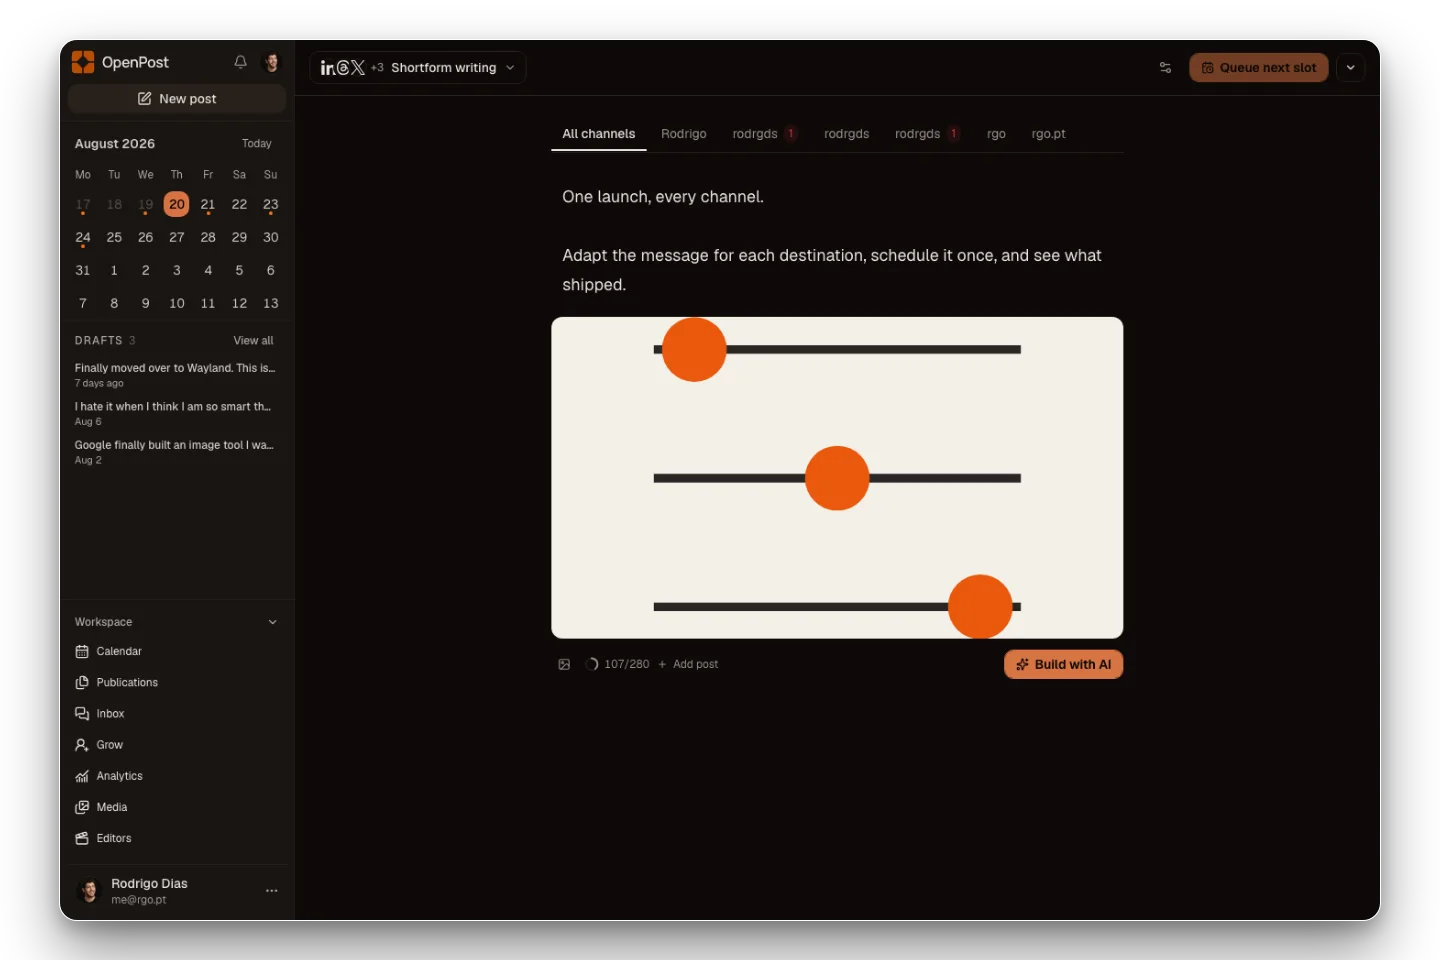
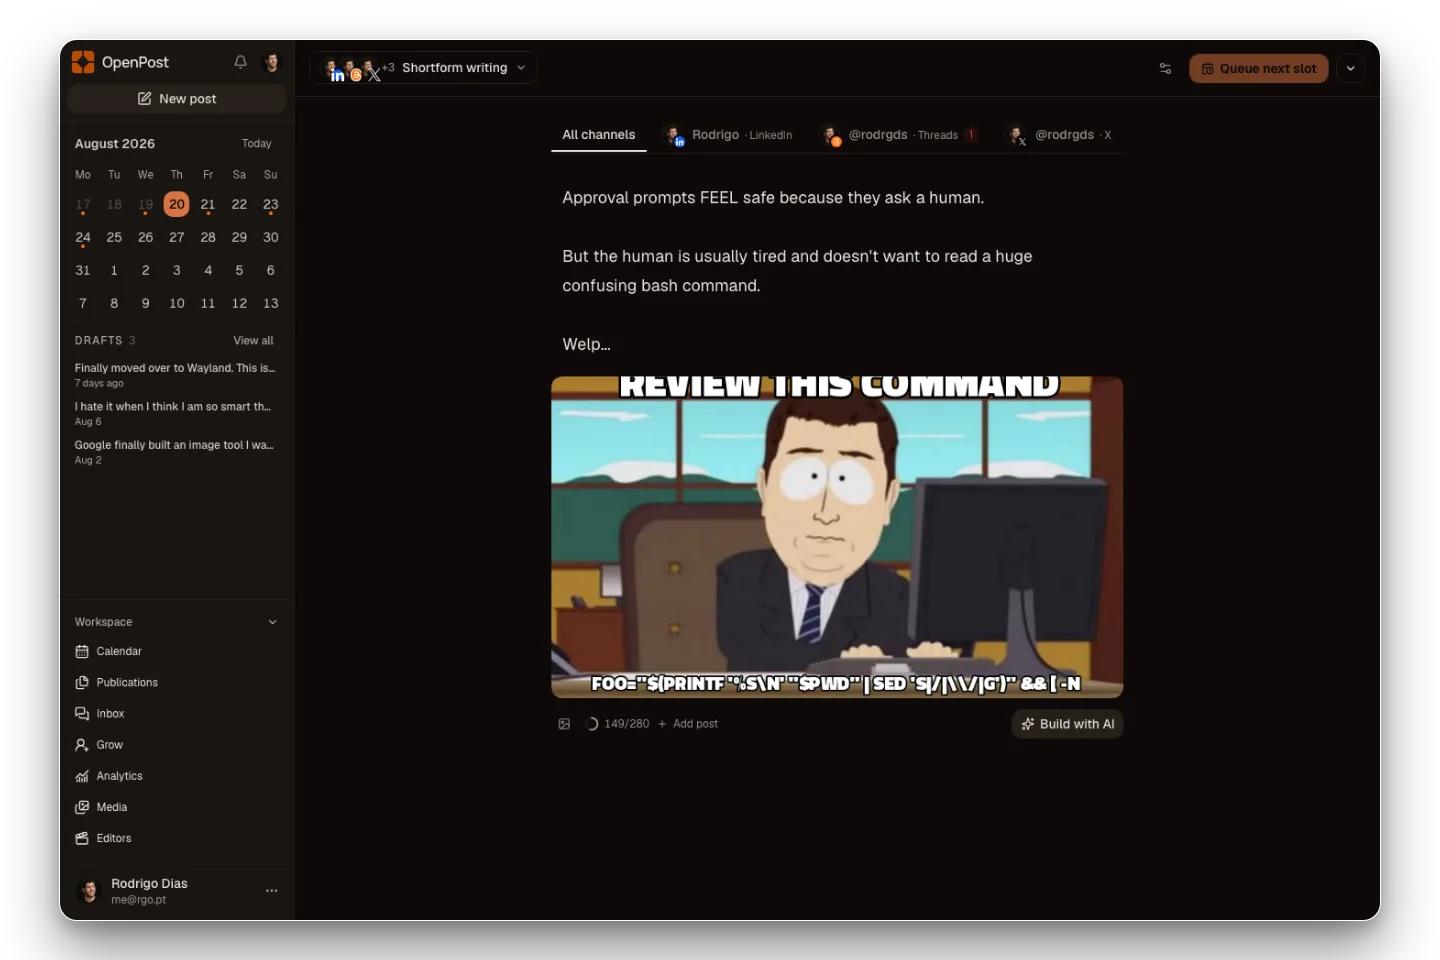
docs: refresh product screenshots

diff --git a/e2e-app/product-screenshots.spec.ts b/e2e-app/product-screenshots.spec.ts
@@ -432,13 +432,194 @@ function publicationFixture(
 }
 
 function analyticsFixture() {
+  const rangeDates = Array.from({ length: 30 }, (_, index) => {
+    const date = new Date(Date.UTC(2026, 6, 22 + index));
+    return date.toISOString().slice(0, 10);
+  });
   const followerSeries = [
-    6712, 6715, 6714, 6716, 6720, 6721, 6724, 6722, 6728, 6740, 6775, 6810, 6831, 6828, 6835, 6849,
-    6856, 6868, 6884, 6901,
-  ].map((value, index) => ({
-    date: `2026-08-${String(index + 1).padStart(2, "0")}`,
-    value,
-  }));
+    6744, 6747, 6747, 6746, 6749, 6752, 6755, 6754, 6758, 6762, 6765, 6771, 6770, 6777, 6781, 6790,
+    6794, 6801, 6806, 6812, 6820, 6831, 6837, 6845, 6852, 6860, 6870, 6882, 6890, 6901,
+  ].map((value, index) => ({ date: rangeDates[index], value }));
+  const posts = [
+    {
+      key: "analytics-rendition-publishing",
+      label: "The boring part of publishing should stay boring",
+      platform: "threads",
+      publication_id: "analytics-publication",
+    },
+    {
+      key: "analytics-rendition-launch-week",
+      label: "A calmer way to run launch week",
+      platform: "linkedin",
+      publication_id: "analytics-publication-launch-week",
+    },
+    {
+      key: "analytics-rendition-daily-shipping",
+      label: "What we learned from shipping every day",
+      platform: "youtube",
+      publication_id: "analytics-publication-daily-shipping",
+    },
+    {
+      key: "analytics-rendition-wayland",
+      label: "Finally moved over to Wayland",
+      platform: "x",
+      publication_id: "analytics-publication-wayland",
+    },
+    {
+      key: "analytics-rendition-image-tools",
+      label: "Image tools should make the result easier to share",
+      platform: "bluesky",
+      publication_id: "analytics-publication-image-tools",
+    },
+    {
+      key: "analytics-rendition-release-notes",
+      label: "The release notes people actually read",
+      platform: "mastodon",
+      publication_id: "analytics-publication-release-notes",
+    },
+    {
+      key: "analytics-rendition-small-fixes",
+      label: "Small fixes compound",
+      platform: "threads",
+      publication_id: "analytics-publication-small-fixes",
+    },
+    {
+      key: "analytics-rendition-queue",
+      label: "Why the queue lives in the database",
+      platform: "linkedin",
+      publication_id: "analytics-publication-queue",
+    },
+    {
+      key: "analytics-rendition-studio",
+      label: "A first look at OpenPost Studio",
+      platform: "youtube",
+      publication_id: "analytics-publication-studio",
+    },
+    {
+      key: "analytics-rendition-provider-rules",
+      label: "Every social app has different rules",
+      platform: "x",
+      publication_id: "analytics-publication-provider-rules",
+    },
+    {
+      key: "analytics-rendition-content-calendar",
+      label: "Planning a month without filling every day",
+      platform: "bluesky",
+      publication_id: "analytics-publication-content-calendar",
+    },
+    {
+      key: "analytics-rendition-founder-workflow",
+      label: "The content workflow I use as a solo founder",
+      platform: "mastodon",
+      publication_id: "analytics-publication-founder-workflow",
+    },
+  ] as const;
+  type TrendSegment = readonly [postIndex: number, value: number];
+  const viewSegments: TrendSegment[][] = [
+    [],
+    [[6, 86]],
+    [[7, 3]],
+    [],
+    [[8, 14]],
+    [],
+    [[9, 136]],
+    [[10, 101]],
+    [[11, 2]],
+    [],
+    [[3, 14]],
+    [[8, 211]],
+    [[2, 18]],
+    [
+      [5, 47],
+      [1, 5],
+    ],
+    [[5, 308]],
+    [[9, 31]],
+    [[2, 432]],
+    [[2, 6]],
+    [[10, 29]],
+    [[2, 4]],
+    [[0, 928]],
+    [
+      [0, 320],
+      [1, 258],
+    ],
+    [
+      [3, 15],
+      [2, 7],
+    ],
+    [
+      [3, 194],
+      [1, 80],
+    ],
+    [[3, 94]],
+    [
+      [11, 82],
+      [0, 6],
+    ],
+    [[0, 8]],
+    [[8, 46]],
+    [[11, 202]],
+    [[5, 143]],
+  ];
+  const engagementSegments: TrendSegment[][] = [
+    [],
+    [[6, 3]],
+    [[7, 1]],
+    [],
+    [[8, 1]],
+    [],
+    [[9, 5]],
+    [[10, 4]],
+    [],
+    [],
+    [[3, 2]],
+    [[8, 8]],
+    [[2, 1]],
+    [
+      [5, 2],
+      [1, 1],
+    ],
+    [[5, 11]],
+    [[9, 2]],
+    [[2, 18]],
+    [],
+    [[10, 2]],
+    [],
+    [[0, 36]],
+    [
+      [0, 13],
+      [1, 10],
+    ],
+    [
+      [3, 1],
+      [2, 1],
+    ],
+    [
+      [3, 8],
+      [1, 3],
+    ],
+    [[3, 5]],
+    [
+      [11, 4],
+      [0, 1],
+    ],
+    [[0, 1]],
+    [[8, 3]],
+    [[11, 8]],
+    [[5, 7]],
+  ];
+  const buildContentTrend = (segmentsByDay: TrendSegment[][]) =>
+    segmentsByDay.map((segments, index) => {
+      const items = segments.map(([postIndex, value]) => ({ ...posts[postIndex], value }));
+      return {
+        date: rangeDates[index],
+        value: items.reduce((total, item) => total + item.value, 0),
+        items,
+      };
+    });
+  const viewTrend = buildContentTrend(viewSegments);
+  const engagementTrend = buildContentTrend(engagementSegments);
   return {
     generated_at: "2026-08-20T14:20:00Z",
     last_synced_at: "2026-08-20T14:18:00Z",
@@ -446,9 +627,12 @@ function analyticsFixture() {
     content_total: 49,
     summary: {
       followers: { value: 6901, delta: 157, measured: 5 },
-      engagement: { value: 37, measured: 49 },
-      views: { value: 2048, measured: 12 },
-      impressions: { value: 1432, measured: 12 },
+      engagement: {
+        value: engagementTrend.reduce((total, point) => total + point.value, 0),
+        measured: 49,
+      },
+      views: { value: viewTrend.reduce((total, point) => total + point.value, 0), measured: 12 },
+      impressions: { value: 8437, measured: 12 },
       reach: { value: 0, measured: 0 },
       published: 15,
     },
@@ -466,40 +650,8 @@ function analyticsFixture() {
           },
         ],
       })),
-      engagement: [8, 12, 5, 18, 9, 14, 7, 21, 11, 16, 13, 24].map((value, index) => ({
-        date: `2026-08-${String(index + 9).padStart(2, "0")}`,
-        value,
-        items: [
-          {
-            key: `analytics-engagement-${index % 3}`,
-            label: [
-              "The boring part of publishing should stay boring",
-              "A calmer way to run launch week",
-              "What we learned from shipping every day",
-            ][index % 3],
-            platform: ["threads", "linkedin", "x"][index % 3],
-            publication_id: `analytics-publication-${index % 3}`,
-            value,
-          },
-        ],
-      })),
-      views: [180, 260, 145, 410, 320, 510, 280, 640, 430, 720, 560, 810].map((value, index) => ({
-        date: `2026-08-${String(index + 9).padStart(2, "0")}`,
-        value,
-        items: [
-          {
-            key: `analytics-view-${index % 3}`,
-            label: [
-              "The boring part of publishing should stay boring",
-              "A calmer way to run launch week",
-              "What we learned from shipping every day",
-            ][index % 3],
-            platform: ["threads", "youtube", "linkedin"][index % 3],
-            publication_id: `analytics-publication-${index % 3}`,
-            value,
-          },
-        ],
-      })),
+      engagement: engagementTrend,
+      views: viewTrend,
     },
     accounts: connectedAccounts.map((account, index) => ({
       id: account.id,
@@ -1114,13 +1266,13 @@ test.describe("product screenshot capture", () => {
     await page
       .locator("#post-textarea-0")
       .fill(
-        "One launch, every channel.\n\nAdapt the message for each destination, schedule it once, and see what shipped.",
+        "Approval prompts FEEL safe because they ask a human.\n\nBut the human is usually tired and doesn't want to read a huge confusing bash command.\n\nWelp...",
       );
     const composer = page.getByTestId("text-thread-composer-content");
     await composer.getByRole("button", { name: "Add media" }).click();
     const mediaPicker = page.getByRole("dialog");
     await mediaPicker.getByRole("tab", { name: "Library" }).click();
-    await mediaPicker.getByRole("button", { name: "Select openpost-workflow.png" }).click();
+    await mediaPicker.getByRole("button", { name: "Select command-review.png" }).click();
     await mediaPicker.getByRole("button", { name: "Add media", exact: true }).click();
     await expect(composer.getByRole("button", { name: "Remove media" })).toBeVisible();
     await expect(page.getByTestId("composer-primary-delivery-action")).toBeVisible();
@@ -1142,9 +1294,20 @@ test.describe("product screenshot capture", () => {
     await page.goto(`/analytics?workspace=${workspace.id}`);
     await expect(page.getByRole("heading", { name: "Analytics", level: 1 })).toBeVisible();
     await expect(page.getByText("6.9K", { exact: true }).first()).toBeVisible();
+    const dailyViewsChart = page.getByRole("img", { name: "Daily views" });
+    await expect(dailyViewsChart).toBeVisible();
+    await expect
+      .poll(() =>
+        page.getByTestId("analytics-chart-scroll").evaluate((viewport) => {
+          const canvas = viewport.firstElementChild;
+          if (!(canvas instanceof HTMLElement) || viewport.clientWidth === 0) return 0;
+          return canvas.getBoundingClientRect().width / viewport.clientWidth;
+        }),
+      )
+      .toBeGreaterThanOrEqual(0.99);
     await capture(page, "analytics-dark.png", [
       page.getByRole("heading", { name: "Highlights" }),
-      page.getByRole("heading", { name: "Daily views" }),
+      dailyViewsChart,
     ]);
 
     await page.goto("/settings?tab=accounts");

diff --git a/README.md b/README.md
@@ -37,7 +37,7 @@
 </p>
 
 <p align="center">
-  <img alt="OpenPost with one post ready for several social apps" src="./assets/screenshots/readme-hero-dark.webp" width="94%">
+  <img alt="OpenPost composer with six social destinations, a command-review meme, and scheduling and publishing controls" src="./assets/screenshots/readme-hero-dark.webp" width="98%">
 </p>
 
 Make something worth sharing. OpenPost helps you shape it for every social app, send it at the right time, and see what happened.
